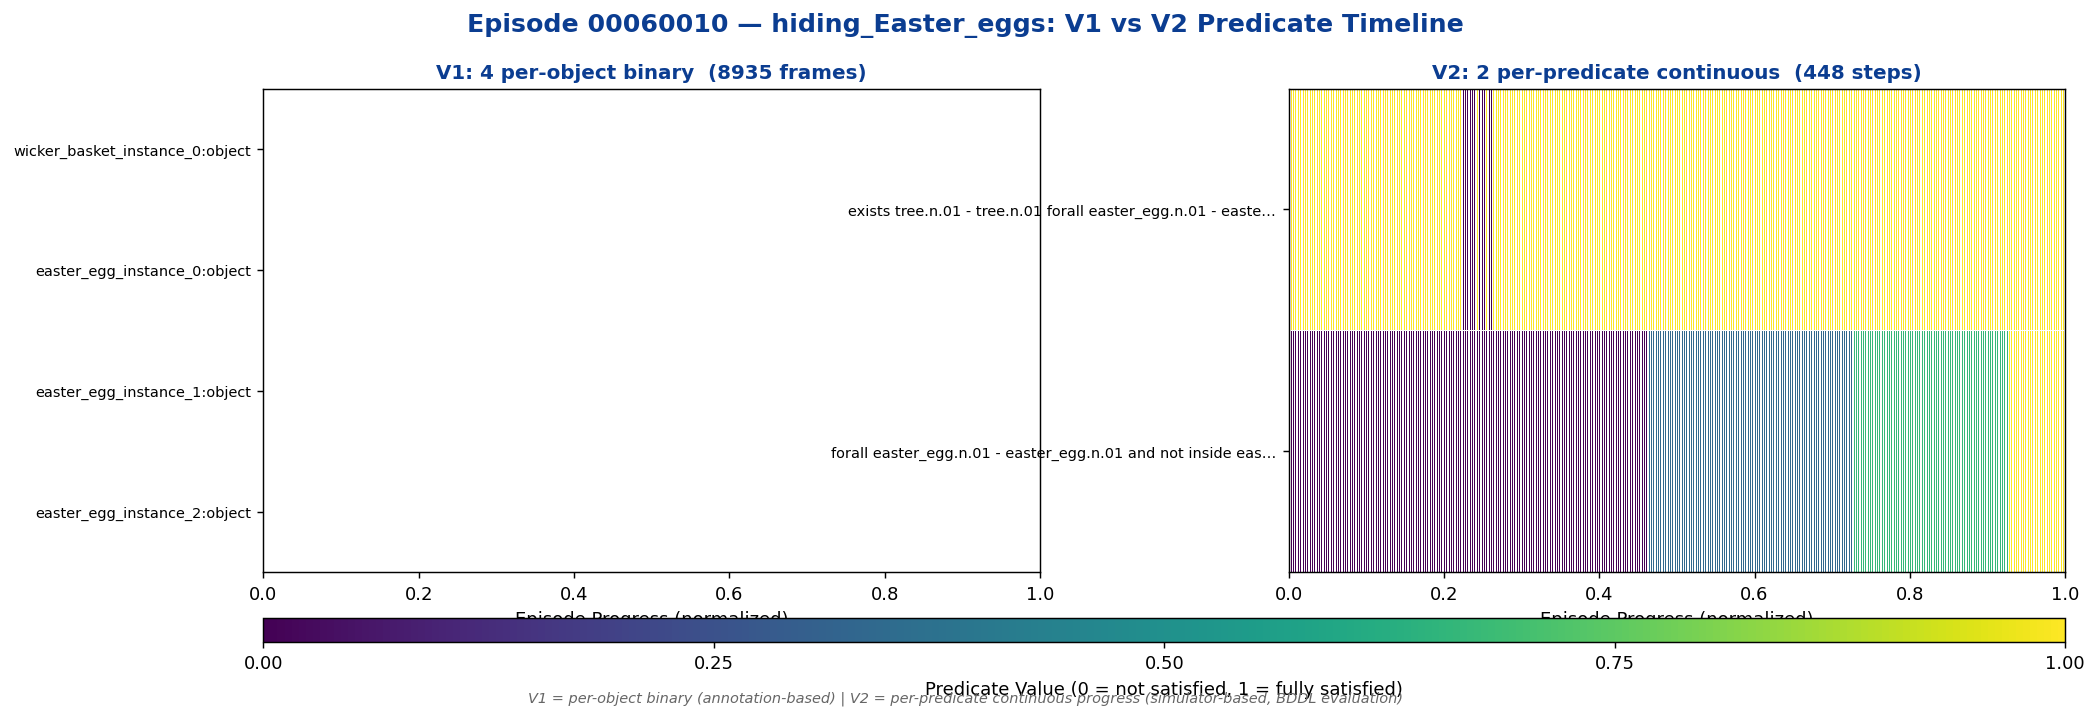
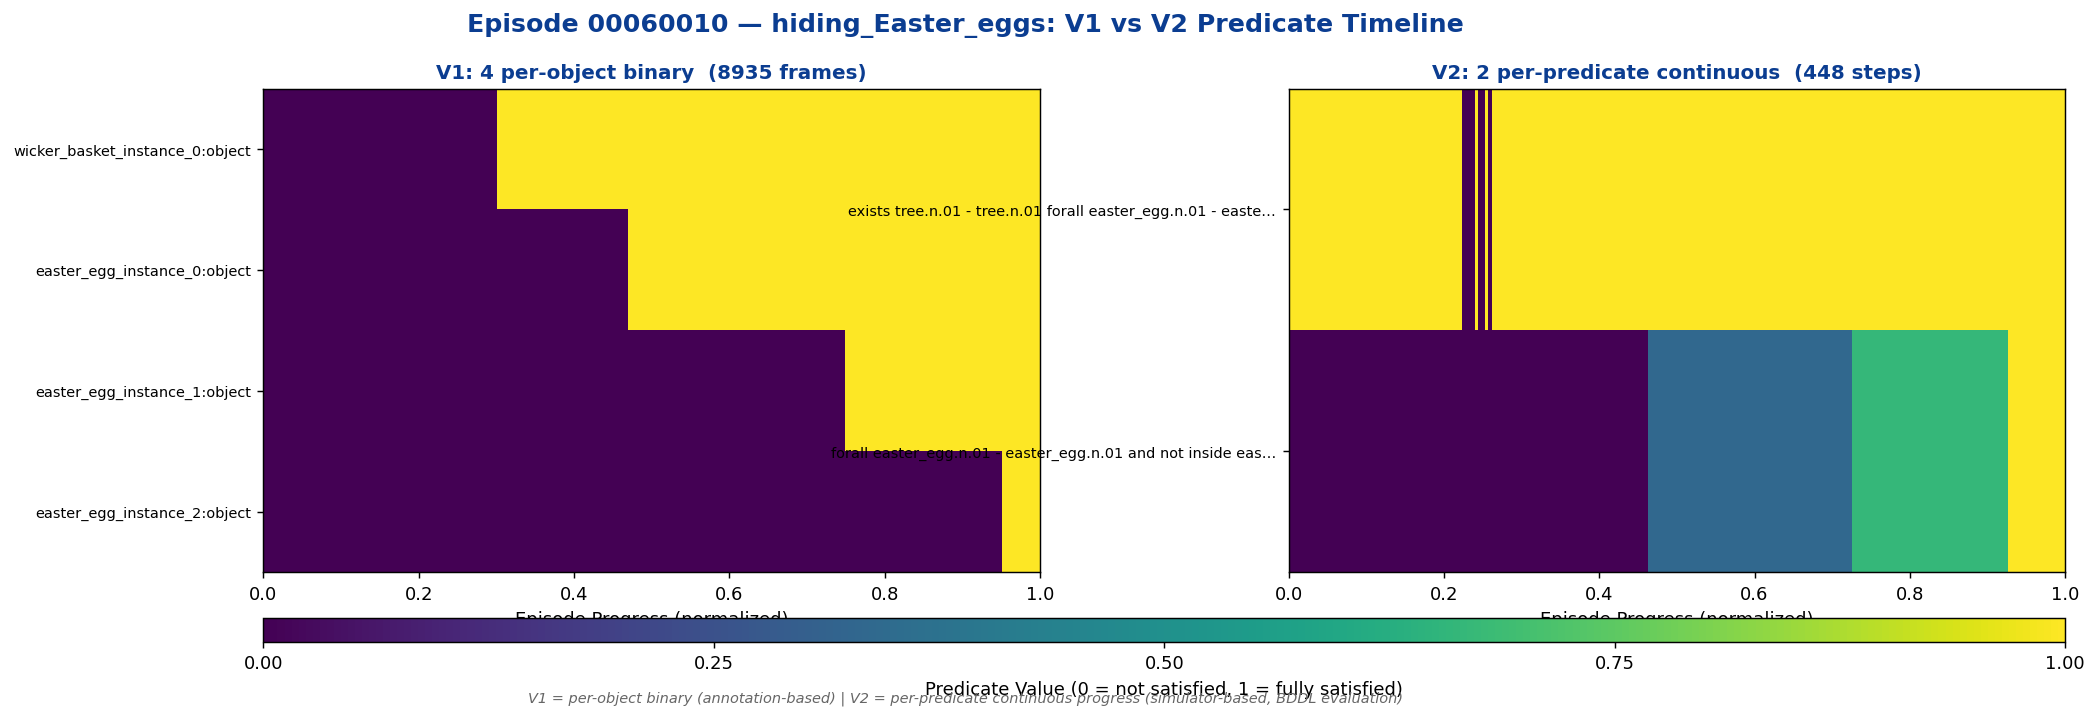
remove white grid lines, use solid color bars

diff --git a/make_plots.py b/make_plots.py
@@ -109,7 +109,7 @@ def plot_one(task_id, episode_id, out_path):
     y1 = np.arange(N1 + 1)
     mesh1 = ax_v1.pcolormesh(
         x1, y1, v1_states.T, cmap=cmap, norm=norm,
-        edgecolors="white", linewidth=0.4, antialiased=False,
+        edgecolors="none", antialiased=False, shading="flat",
     )
     ax_v1.set_yticks(np.arange(N1) + 0.5)
     ax_v1.set_yticklabels([truncate(l, 38) for l in v1_labels], fontsize=8)
@@ -124,7 +124,7 @@ def plot_one(task_id, episode_id, out_path):
     y2 = np.arange(N2 + 1)
     ax_v2.pcolormesh(
         x2, y2, v2_values.T, cmap=cmap, norm=norm,
-        edgecolors="white", linewidth=0.4, antialiased=False,
+        edgecolors="none", antialiased=False, shading="flat",
     )
     ax_v2.set_yticks(np.arange(N2) + 0.5)
     ax_v2.set_yticklabels([truncate(l, 60) for l in v2_labels], fontsize=8)
